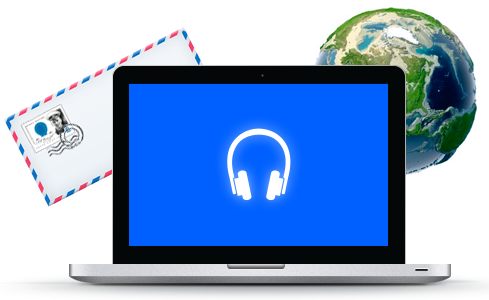
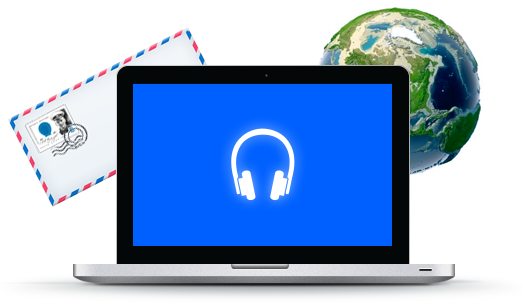
The set of fixes for designer ideas

Changed region(s): [[0.0, 0.0, 0.9816, 0.99], [0.4294, 0.42, 0.6135, 0.69], [0.0307, 0.36, 0.0613, 0.39]]

diff --git a/files/Content/luwrain.css b/files/Content/luwrain.css
@@ -10,9 +10,11 @@
 .font30 {font-size: 30px!important;}
 .font35 {font-size: 35px!important;}
 .italic{font-style:italic!important;}
-.blueColor {color: #26c3d8!important;}
+.blueColor {color: #0060ff!important;}
+.lightBlueColor {color: #00bed5!important;}
 .lightGrey{color: #c0c0c0!important;}
 .darkGrey{color: #303030!important;}
+.arial{font-family: Arial; }
 
 body { 
 	padding: 0; 
@@ -66,6 +68,7 @@ img{
     margin: 0;
     padding: 55px 0px 0px 310px;
     position: relativ;
+	line-height: 1.5em;
 }
 #topPart .topMenu  .sectionMenu{
 	float:left;
@@ -76,19 +79,23 @@ img{
 #topPart .topMenu  .sectionMenu div .linkMenu{
 	margin-bottom:10px;
 }
+#topPart .topMenu  .sectionMenu div .linkMenuLast{
+	margin-bottom:5px;
+}
 #topPart .topMenu  .sectionMenu div .subMenu{
 	padding:0px;
 }
 #topPart .topMenu  .sectionMenu div .subMenuSmall{
 	padding:0px 0px 0px 20px;
 	font-size: 16px; 
+	line-height: 1.25em;
 }
 #menuSwitch {
 	height:50px;
 	width:100%;
 }
 #menuSwitch  .menuButton{
-	padding: 30px 0 0 580px;
+	padding: 35px 0 0 580px;
 }
 #headerPart {
 	height:100%;
@@ -114,18 +121,22 @@ img{
 #headerPart .headerList  .sectionHeader div .subMenu{
 	padding:0px;
 }
-#headerPart .headerList  .sectionHeader div .subMenuSmall{
+#headerPart .headerList  .sectionHeader div .subMenu{
+	padding:0px;
+}
+#headerPart .headerList  .sectionHeader div  #logoLink #logoLinkUl{
 	padding:0px 0px 0px 20px;
 	font-size: 16px; 
+	line-height: 1.05em;
 }
 #headerPart .headerList  .sectionHeader #leftMenu{
-	height:490px;
+	height: 425px;
 	width:170px;
-	margin: 50px 0px 0px 120px;
+	margin: 67px 0 0 90px;
 }
 #headerPart .headerList  .sectionHeader #logo{
-	width:540px;
-	margin: 50px 0px 0px 0px;
+	width: 605px;
+	margin: 68px -9px 0;
 }
 #headerPart .headerList  .sectionHeader #logo li {
     text-align: center;
@@ -134,13 +145,12 @@ img{
 	color: #2e2e2e; 
 }
 #headerPart .headerList  .sectionHeader #mainMenu{
-	margin: 50px 0px 0px 0px;
-	height:490px;
-	width:320px;
+	height: 450px;
+    margin: 41px -16px 0;
+    width: 290px;
 }
 #headerPart .headerList  .sectionHeader #rightArrow{
     text-align: right;
-	padding-right:40px;
 }
 #headerPart .headerList  .sectionHeader #mainMenuBorder{
 	border:5px solid #e1e1e2;
@@ -149,7 +159,7 @@ img{
 	margin:0px 0px 0px 50px;
 }
 #headerPart .headerList  .sectionHeader #mainMenuList{
-	margin:20px 0px 0px 20px;
+	margin: 20px 0 0 24px;
 }
 #footerPart {
 	padding-top:70px;
@@ -162,9 +172,10 @@ img{
 }
 #footerPart .footerList {
     margin: 0;
-    padding: 0px 0px 0px 120px;
+    padding: 6px 0 0 132px;
     position: relativ;
 	width:100%;	
+	color: #2e2e2e;
 }
 #footerPart .footerList  .sectionFooter{
 	float:left;
@@ -174,7 +185,7 @@ img{
 }
 #footerPart .footerList  .sectionFooter #terms{
 	padding-top: 3px;
-	width:720px;
+	width: 723px;
 }
 #footerPart .footerList  .sectionFooter #design{
 	padding-top: 3px;
@@ -184,52 +195,57 @@ img{
 	margin:20px 0px 0px 20px;
 }
 #headerPart .headerList  .sectionHeader #mainPart #accEnvir{
-	padding-top:100px;
+	padding: 70px 0 0 15px;
 	text-align: center;
 	color: #808080;
 }
 #headerPart .headerList  .sectionHeader #mainPart #picContent{
-	height:440px;
-	width:537px;
+	height: 402px;
+	width:586px;
 	text-align: center;
 }
 #headerPart .headerList  .sectionHeader #mainPart #picContent #imageDiv{
 	height:300px;
 }
 #headerPart .headerList  .sectionHeader #mainPart #picContent #textBasedImg{
-	padding-top:130px;
+	padding-left: 28px;
+    padding-top: 131px;
 }
 #headerPart .headerList  .sectionHeader #mainPart #picContent #accImg{
-	padding-top:45px;
-	padding-right: 27px;
+	padding-left: 35px;
+    padding-top: 38px;
 }
 #headerPart .headerList  .sectionHeader #mainPart #picContent #javaImg{
-	padding-top:110px;
-	padding-left: 105px;
+	padding-left: 148px;
+    padding-top: 89px;
 }
 #headerPart .headerList  .sectionHeader #mainPart #picContent #fossImg{
 	padding-top:95px;
-	padding-left: 150px;
+	padding-left: 191px;
 }
 
 #headerPart .headerList  .sectionHeader #mainPart #picContent #accPlatform{
-	padding-top:175px;
+	padding-top:171px;
+	padding-left: 20px;
 	text-align: center;
 	font-size: 36px;
 }
 #headerPart .headerList  .sectionHeader #mainPart #picContent #text1more{
-	padding-top:25px;
+	padding-top: 14px;
 	text-align: center;
 	font-size: 14px;
+	line-height: 1.4em;
+	color: #656565;
 }
 #headerPart .headerList  .sectionHeader #mainPart #picContent #textUnderPic{
 	font-size: 36px;
-	padding-top:40px;
-	text-align: center;
+    padding-left: 20px;
+    padding-top: 54px;
+    text-align: center;
 }
 #headerPart .headerList  .sectionHeader #mainPart #buttonContent {
-	padding-left:45px;
-	height:140px;
+	padding-left: 78px;
+	height: 144px;
 	width:100%;
 }
 #headerPart .headerList  .sectionHeader #mainPart #buttonContent ul {
@@ -241,7 +257,7 @@ img{
 	text-align: center;
 }
 #headerPart .headerList  .sectionHeader #mainPart .twoButton{
-	width:205px;
+	width: 196px;
 	height:50px;
 }
 #headerPart .headerList  .sectionHeader #mainPart .twoButton span{
@@ -255,6 +271,10 @@ img{
 	width:55px;
 	color:#808080;
 	font-size: 18px;
+}
+#headerPart .headerList  .sectionHeader #mainPart button {
+	font-size: 18px;
+	font-family: Myriad Pro; 
 }
 #headerPart .headerList  .sectionHeader #mainPart .heavyButton{
 	background-color:#0060ff;
@@ -295,7 +315,8 @@ img{
 	background-color:black;
 }
 #headerPart .headerList  .sectionHeader #mainPart #navigation {
-	padding: 0px 0px 0px 189px;
+	padding: 0 0 0 212px;
+	font-family: Arial;
 }
 #headerPart .headerList  .sectionHeader #mainPart #navigation li {
 	width:25px;
@@ -304,49 +325,54 @@ img{
 	text-align: center;
 }
 #headerPart .headerList  .sectionHeader #mainPart #insidePageText {
-	width:540px;
-	padding-top:90px;
+	width:587px;
+	padding-top:77px;
+	font-family: Arial;
+	color: #303030;
+	line-height: 1.25em;
 }
 #headerPart .headerList  .sectionHeader #mainPart #insidePageText  h1{
 	font-size: 36px;
 	text-decoration:none;
 	font-weight: normal;
+	color: #000000;
 }
 #headerPart .headerList  .sectionHeader #mainPart #insidePageText  h2{
 	font-size: 20px;
 	color:#2e2e2e;
+	padding-top: 20px;
 	text-decoration:none;
 	font-weight: normal;
 }
 #headerPart .headerList  .sectionHeader #mainPart #insidePageText  h3{
 	font-size: 14px;
-	color:#a8a9aa;
+	color:#818284;
 	text-decoration:none;
 	font-weight: normal;
+	padding-top: 5px;
 }
 #headerPart .headerList  .sectionHeader #mainPart #insidePageText  p{
 	font-size: 14px;
-	color:#7c7c7c;
+	color:#303030;
 	text-decoration:none;
 	font-weight: normal;
 }
 #headerPart .headerList  .sectionHeader #mainPart #insidePageText  ul{
+	padding-left: 20px; 
+	padding-top: 5px;
 	font-size: 14px;
-	color:#a8a9aa;
+	color:#303030;
 	text-decoration:none;
 	font-weight: normal;
+}
+#headerPart .headerList  .sectionHeader #mainPart #insidePageText  ul li span {
+	color:#707070;
 }
 #headerPart .headerList  .sectionHeader #mainPart #insidePageText  ul a{
 	font-size: 14px;
-	color:#a8a9aa;
-	text-decoration:none;
+	color:#0060ff;
 	font-weight: normal;
-}
-#headerPart .headerList  .sectionHeader #mainPart #insidePageText  ul a:hover{
-	font-size: 14px;
-	color: #26c3d8;   
-	text-decoration:none;
-	font-weight: normal;
+	text-decoration:underline;
 }
 #headerPart .headerList  .sectionHeader #mainPart #insidePageText  li{
 	list-style: decimal outside none;

diff --git a/files/Scripts/index.js b/files/Scripts/index.js
@@ -1,7 +1,7 @@
 function OnReadyIndex() {
 
-	$('#rightArrow').html('<a href="#" class="font35 bold" id="rightArrowLink">&#62;</a>');	
-	$('#leftArrow').html('<a href="#" class="font35 bold" id="leftArrowLink">&#60;</a>');
+	$('#rightArrow').html('<a href="#" class="font35 bold arial" id="rightArrowLink">&#10095;</a>');	
+	$('#leftArrow').html('<a href="#" class="font35 bold arial" id="leftArrowLink">&#10094;</a>');
 	
 	$('#hiddenPartNumber').val(1);
 	
@@ -51,7 +51,7 @@ function ShowPart1(){
 	$('#secondButton').removeClass('lightSolidButton');
 	
 	$('#hiddenPartNumber').val('1');
-	$('#imageDiv').html('<img id="accImg" src="Images/acc.png" alt="The accessible platform" height="300" width="489"></img>');
+	$('#imageDiv').html('<img id="accImg" src="Images/acc.png" alt="The accessible platform" height="303" width="523"></img>');
 	$('#textUnderPic').html('The accessible platform');
 	$('#accPlatform').html('The accessible platform');
 	$('#text1more').html('With accessible environment Luwrain blind and visually-impaired persons '+
@@ -118,7 +118,7 @@ function ShowPart3(){
 										'<br/>in any choice of SQL server which has proper JDBC interface. For low-vision'+ 
 										'<br/>users Luwrain opens full-screen window with all corresponding textual'+ 
 										'<br/>data written in contrast colours. That window is drawn by X.org server'+
-										'using special window manager created as a part of Luwrain project.');
+										'<br/>using special window manager created as a part of Luwrain project.');
 	$('#firstButton').html('<span>Our community</span>');
 	$('#secondButton').html('<span>Read more</span>');
 };

diff --git a/files/Scripts/core.js b/files/Scripts/core.js
@@ -1,5 +1,4 @@
-function OnReady() {
-
+function OnReady() {		
 	$('#topPart').addClass('hidden');
 	$('#closeMenu').addClass('hidden');
 	$('#openMenu').click(function (e) {
@@ -39,7 +38,7 @@ function OnReady() {
 };
 
 function ChangeLanguage(langName) {
-	$('#selectedLanguageName').html($('#'+langName).html());
+	$('#selectedLanguageName').html($('#'+langName +'&#9662;').html());
 	$('#languageSelected').removeClass('hidden');
 	$('#languageMenu').addClass('hidden');
 };
